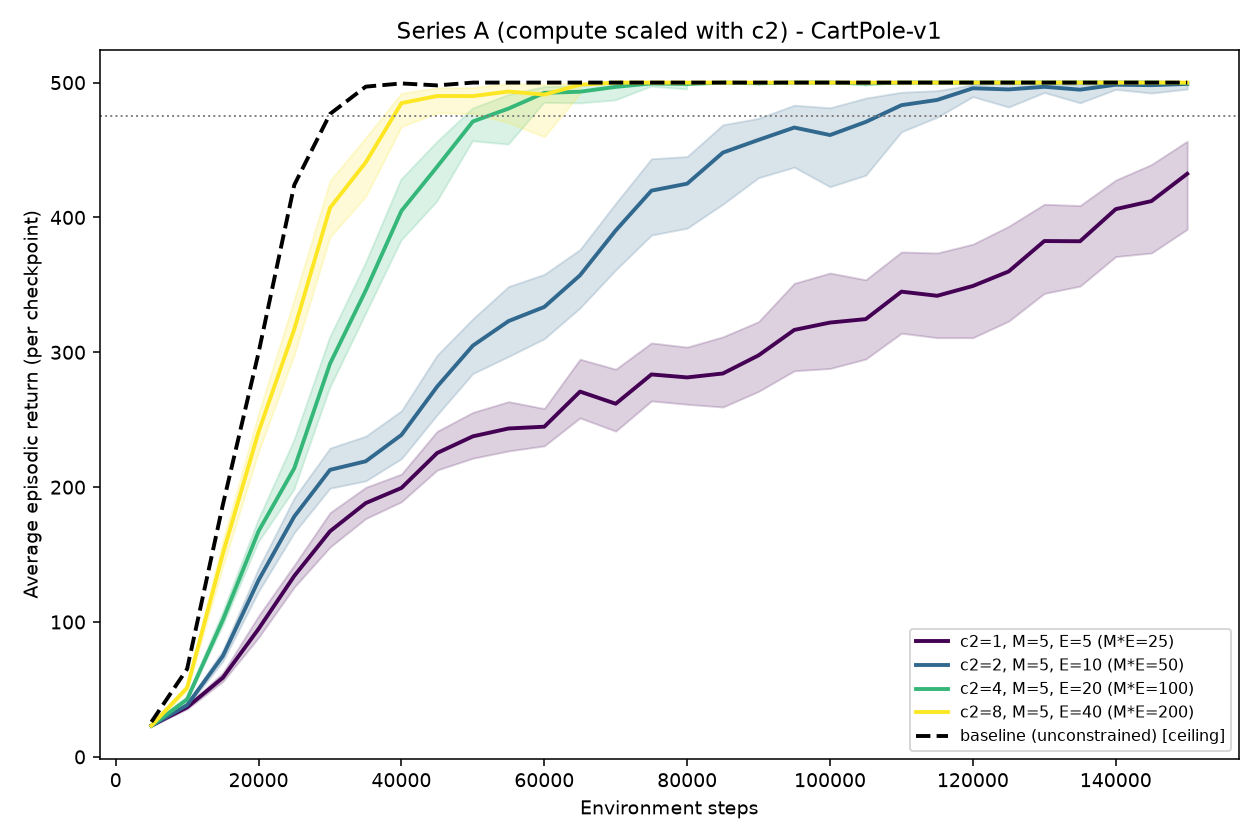
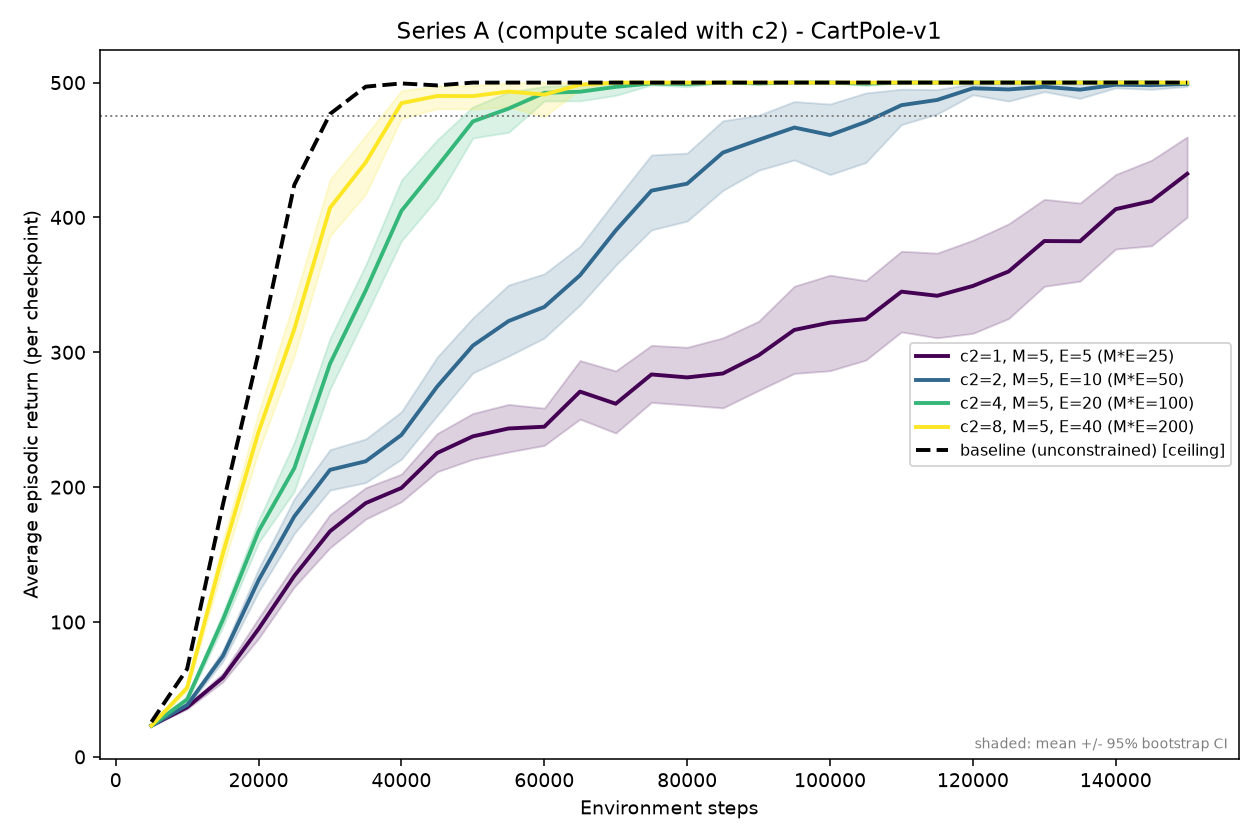
Add robust (median + IQR) plotting mode & silence degenerate-stat warnings
analyze.py: new --robust flag plots median + interquartile band instead of
mean + bootstrap CI (and reports the median in the summary table) -- far
cleaner on Acrobot, where a few diverging seeds otherwise inflate the mean's
bootstrap CI into unreadable bands. Switch the default bootstrap to the
percentile method and scope-suppress the harmless precision-loss /
degenerate-BCa warnings from zero-variance saturated configs.
make_figures.sh: pass --robust for the two Acrobot series.

diff --git a/analyze.py b/analyze.py
@@ -7,20 +7,22 @@ c2_1,c2_2,...}``. Each configuration directory holds one ``{seed}.txt`` per run
 ``stats.txt`` (the JSON config) used for nicer legend labels.
 
 Produces, for the whole series:
-  * an overlaid learning-curve plot with mean +/- 95% bootstrap CI bands and the
-    unconstrained baseline drawn as a dashed black ceiling line;
+  * an overlaid learning-curve plot — mean + 95% bootstrap CI band by default,
+    or median + interquartile band with ``--robust`` (cleaner when a few seeds
+    diverge) — with the unconstrained baseline as a dashed black ceiling line;
   * a summary table (final return, AUC, steps-to-threshold, cross-seed std);
   * a matrix of pairwise Welch t-test p-values on the per-seed final return.
 
 Example:
-    uv run python analyze.py results/seriesA_cartpole \
-        --title "Series A - CartPole" --threshold 475 \
-        --save results/figures/seriesA_cartpole.png
+    uv run python analyze.py results/seriesA_acrobot \
+        --title "Series A - Acrobot" --threshold -100 --robust \
+        --save results/figures/seriesA_acrobot.png
 """
 
 import argparse
 import json
 import os
+import warnings
 
 import matplotlib.pyplot as plt
 import numpy as np
@@ -66,24 +68,43 @@ def label_for(run_dir, name):
     return name
 
 
-def bootstrap_ci(ys, n_resamples=2000, ci=0.95, seed=0):
-    """Per-checkpoint mean and bootstrap CI across seeds.
+def band(ys, robust=False, n_resamples=2000, ci=0.95, seed=0):
+    """Central curve + shaded interval across seeds, per checkpoint.
 
-    ``ys``: (n_seeds, n_checkpoints). Returns (mean, lo, hi), each (n_checkpoints,).
+    ``ys``: (n_seeds, n_checkpoints). Returns ``(center, lo, hi)``.
+
+    * default    -> mean + bootstrap percentile CI;
+    * ``robust`` -> median + interquartile (25-75) band, which is far cleaner
+      than a bootstrap CI when a few seeds diverge (e.g. on Acrobot).
     """
+    if robust:
+        return (
+            np.median(ys, axis=0),
+            np.percentile(ys, 25, axis=0),
+            np.percentile(ys, 75, axis=0),
+        )
     mean = ys.mean(axis=0)
     if ys.shape[0] < 3:  # too few seeds to bootstrap meaningfully
         return mean, mean, mean
-    rng = np.random.default_rng(seed)
-    res = stats.bootstrap(
-        (ys,),
-        np.mean,
-        axis=0,
-        n_resamples=n_resamples,
-        confidence_level=ci,
-        random_state=rng,
-    )
-    return mean, res.confidence_interval.low, res.confidence_interval.high
+    with warnings.catch_warnings():
+        # Saturated configs (e.g. every seed at 500) are zero-variance; the
+        # percentile method handles them gracefully and we silence the
+        # residual numerical notices rather than spam the console.
+        warnings.simplefilter("ignore")
+        res = stats.bootstrap(
+            (ys,),
+            np.mean,
+            axis=0,
+            n_resamples=n_resamples,
+            confidence_level=ci,
+            method="percentile",
+            random_state=np.random.default_rng(seed),
+        )
+    lo, hi = res.confidence_interval.low, res.confidence_interval.high
+    # Degenerate (zero-variance) checkpoints -> collapse the band onto the mean.
+    lo = np.where(np.isfinite(lo), lo, mean)
+    hi = np.where(np.isfinite(hi), hi, mean)
+    return mean, lo, hi
 
 
 def final_return_per_seed(ys, frac=0.1):
@@ -111,7 +132,11 @@ def steps_to_threshold(xs, ys, threshold):
     return np.array(out)
 
 
-def fmt_ci(vals):
+def fmt_center(vals, robust=False):
+    """Format center [interval]: median [IQR] if robust, else mean [95% CI]."""
+    if robust:
+        med, lo, hi = np.nanpercentile(vals, [50, 25, 75])
+        return f"{med:8.1f} [{lo:7.1f}, {hi:7.1f}]"
     m = np.nanmean(vals)
     if len(vals) >= 3:
         lo, hi = np.nanpercentile(vals, [2.5, 97.5])
@@ -132,6 +157,12 @@ def main():
     parser.add_argument("--xlabel", default="Environment steps")
     parser.add_argument(
         "--ylabel", default="Average episodic return (per checkpoint)"
+    )
+    parser.add_argument(
+        "--robust",
+        action="store_true",
+        help="Plot median + interquartile band (and report median) instead of "
+        "mean + bootstrap CI. Cleaner when a few seeds diverge (e.g. Acrobot).",
     )
     parser.add_argument("--save", default=None, help="Output PNG path.")
     parser.add_argument("--dpi", type=int, default=140)
@@ -156,6 +187,7 @@ def main():
         raise SystemExit(f"No run data found under {args.series_dir}")
 
     # ---- Plot -----------------------------------------------------------
+    band_desc = "median +/- IQR (25-75)" if args.robust else "mean +/- 95% bootstrap CI"
     fig, ax = plt.subplots(figsize=(9, 6))
     cmap = plt.get_cmap("viridis")
     constrained = [n for n in runs if n != "baseline"]
@@ -163,12 +195,12 @@ def main():
 
     for name, (xs, ys) in runs.items():
         label = label_for(os.path.join(args.series_dir, name), name)
-        mean, lo, hi = bootstrap_ci(ys)
+        center, lo, hi = band(ys, robust=args.robust)
         if name == "baseline":
-            ax.plot(xs, mean, color="black", ls="--", lw=2,
+            ax.plot(xs, center, color="black", ls="--", lw=2,
                     label=f"{label} [ceiling]", zorder=10)
         else:
-            ax.plot(xs, mean, color=colors[name], lw=2, label=label)
+            ax.plot(xs, center, color=colors[name], lw=2, label=label)
             ax.fill_between(xs, lo, hi, color=colors[name], alpha=0.18)
 
     if args.threshold is not None:
@@ -178,6 +210,8 @@ def main():
     ax.set_xlabel(args.xlabel)
     ax.set_ylabel(args.ylabel)
     ax.legend(fontsize=8, loc="best")
+    ax.text(0.99, 0.01, f"shaded: {band_desc}", transform=ax.transAxes,
+            ha="right", va="bottom", fontsize=7, color="grey")
     fig.tight_layout()
 
     if args.save:
@@ -188,7 +222,9 @@ def main():
     # ---- Summary table --------------------------------------------------
     n_seeds = {n: ys.shape[0] for n, (xs, ys) in runs.items()}
     print(f"\n=== Summary: {args.series_dir} (seeds: {n_seeds}) ===")
-    header = f"{'config':14s} {'final return [95% CI]':30s} {'AUC':10s} {'std':7s}"
+    center_label = "median [IQR]" if args.robust else "mean [95% CI]"
+    auc_center = np.median if args.robust else np.mean
+    header = f"{'config':14s} {('final return ' + center_label):30s} {'AUC':10s} {'std':7s}"
     if args.threshold is not None:
         header += f" {'steps@thr (median, %solved)':28s}"
     print(header)
@@ -197,7 +233,7 @@ def main():
         fr = final_return_per_seed(ys)
         finals[name] = fr
         auc = auc_per_seed(xs, ys)
-        line = f"{name:14s} {fmt_ci(fr):30s} {np.mean(auc):8.1f}  {np.std(fr):6.1f}"
+        line = f"{name:14s} {fmt_center(fr, args.robust):30s} {auc_center(auc):8.1f}  {np.std(fr):6.1f}"
         if args.threshold is not None:
             s = steps_to_threshold(xs, ys, args.threshold)
             pct = 100 * np.mean(~np.isnan(s))
@@ -210,15 +246,19 @@ def main():
     if len(names) > 1 and min(n_seeds.values()) >= 2:
         print("\nPairwise Welch t-test p-values (per-seed final return):")
         print(" " * 14 + "".join(f"{n[:12]:>13s}" for n in names))
-        for a in names:
-            row = f"{a:14s}"
-            for b in names:
-                if a == b:
-                    row += f"{'-':>13s}"
-                else:
-                    p = stats.ttest_ind(finals[a], finals[b], equal_var=False).pvalue
-                    row += f"{p:13.3f}"
-            print(row)
+        with warnings.catch_warnings():
+            # Saturated configs are near-identical -> harmless precision-loss
+            # notices from the t-test; the resulting p-values are still valid.
+            warnings.simplefilter("ignore")
+            for a in names:
+                row = f"{a:14s}"
+                for b in names:
+                    if a == b:
+                        row += f"{'-':>13s}"
+                    else:
+                        p = stats.ttest_ind(finals[a], finals[b], equal_var=False).pvalue
+                        row += f"{p:13.3f}"
+                print(row)
 
     plt.close(fig)
 